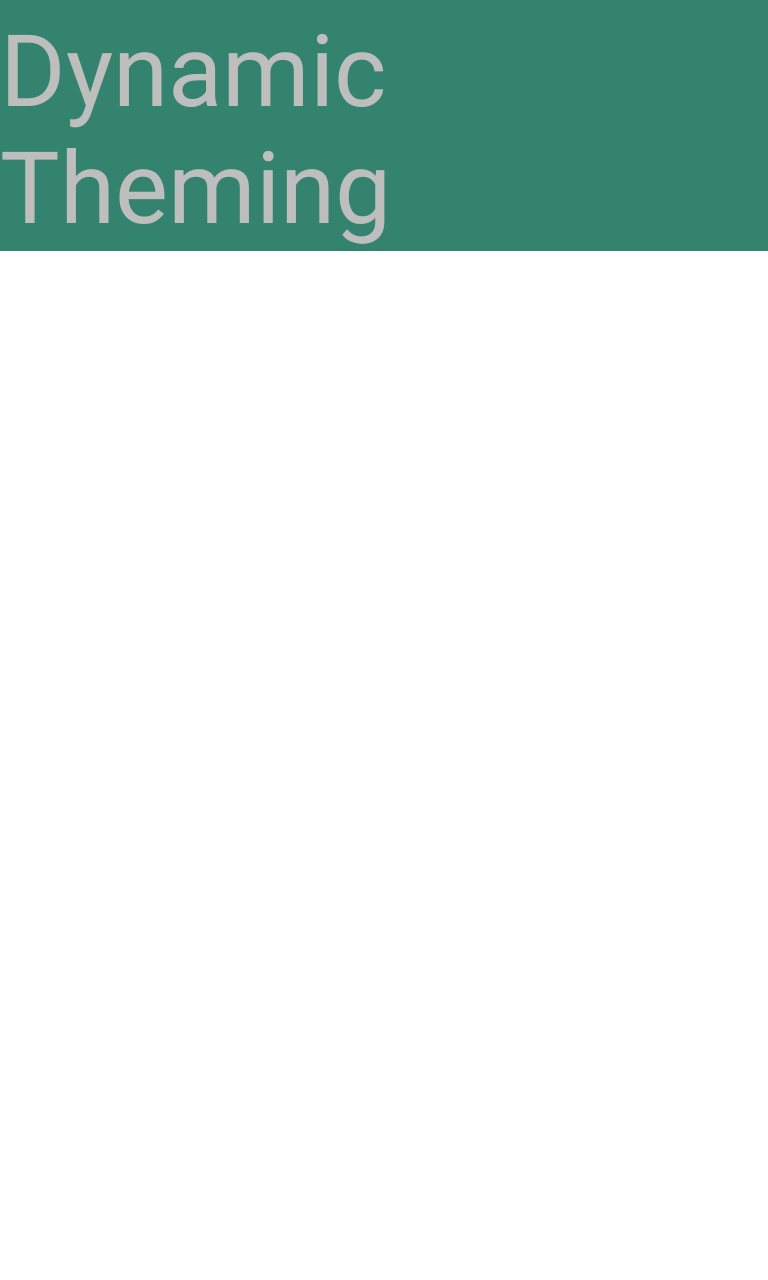
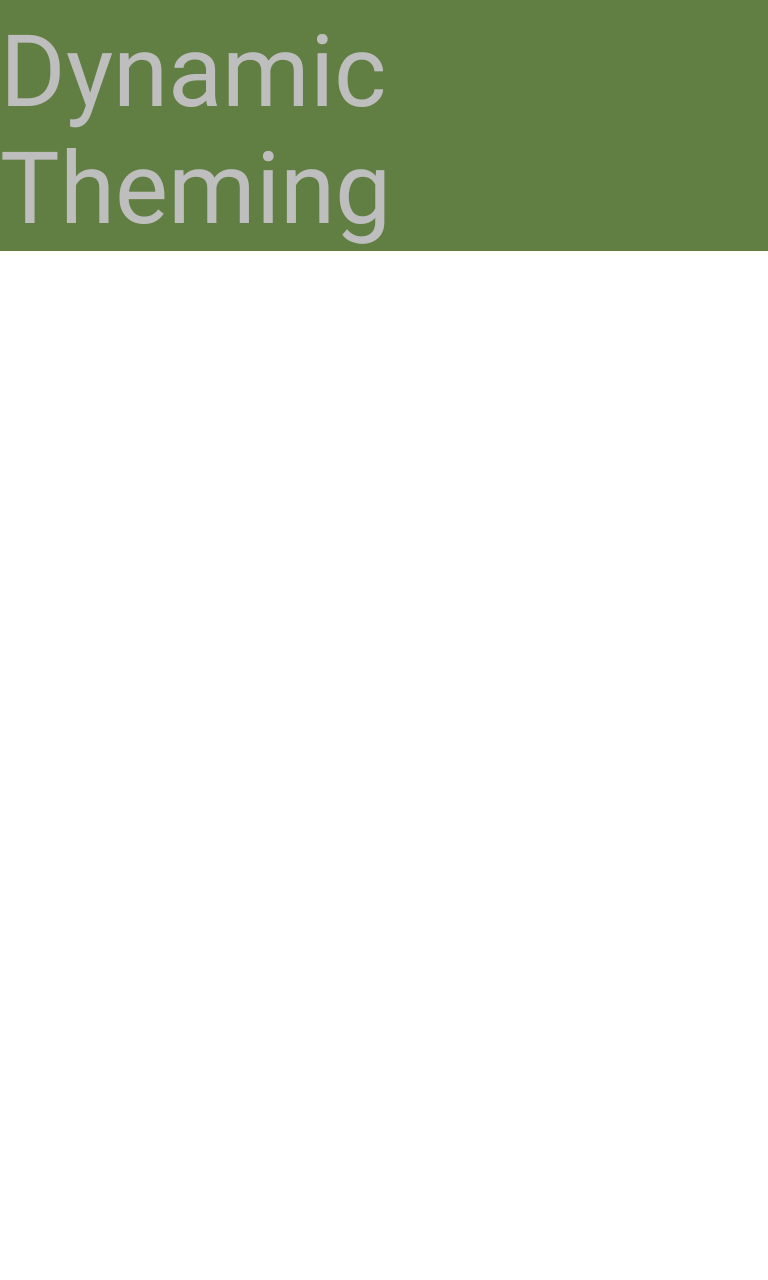
Update dynamic theming wallpapers
Material design has changed their example wallpapers. This accordingly
updates the ones offered in Studio.

Bug: 256875698
Test: tests updated

Changed region(s): [[0.0, 0.0, 1.0, 0.2188]]

diff --git a/android/src/com/android/tools/idea/configurations/SystemUiModeAction.kt b/android/src/com/android/tools/idea/configurations/SystemUiModeAction.kt
@@ -278,11 +278,10 @@ private class SetWallpaperAction(renderContext: ConfigurationHolder, val wallpap
 }
 
 enum class Wallpaper(val resourcePath: String, val icon: Icon) {
-  WALLPAPER_1("/wallpapers/wallpaper1.webp", getWallpaperIcon("/wallpapers/thumbnail1.png")),
-  WALLPAPER_2("/wallpapers/wallpaper2.webp", getWallpaperIcon("/wallpapers/thumbnail2.png")),
-  WALLPAPER_3("/wallpapers/wallpaper3.webp", getWallpaperIcon("/wallpapers/thumbnail3.png")),
-  WALLPAPER_4("/wallpapers/wallpaper4.webp", getWallpaperIcon("/wallpapers/thumbnail4.png")),
-  WALLPAPER_5("/wallpapers/wallpaper5.webp", getWallpaperIcon("/wallpapers/thumbnail5.png"));
+  RED("/wallpapers/red.png", getWallpaperIcon("/wallpapers/red_thumbnail.png")),
+  GREEN("/wallpapers/green.png", getWallpaperIcon("/wallpapers/green_thumbnail.png")),
+  BLUE("/wallpapers/blue.png", getWallpaperIcon("/wallpapers/blue_thumbnail.png")),
+  YELLOW("/wallpapers/yellow.png", getWallpaperIcon("/wallpapers/yellow_thumbnail.png")),
 }
 
 private fun wallpaperFromPath(path: String?): Wallpaper? {

diff --git a/android/testSrc/com/android/tools/idea/rendering/RenderTaskTest.java b/android/testSrc/com/android/tools/idea/rendering/RenderTaskTest.java
@@ -718,7 +718,7 @@ public class RenderTaskTest extends AndroidTestCase {
       }
     });
 
-    configuration.setWallpaperPath(Wallpaper.WALLPAPER_1.getResourcePath());
+    configuration.setWallpaperPath(Wallpaper.RED.getResourcePath());
     RenderTestUtil.withRenderTask(myFacet, file, configuration, logger, task -> {
       task.setDecorations(false);
       try {
@@ -730,7 +730,7 @@ public class RenderTaskTest extends AndroidTestCase {
       }
     });
 
-    configuration.setWallpaperPath(Wallpaper.WALLPAPER_2.getResourcePath());
+    configuration.setWallpaperPath(Wallpaper.GREEN.getResourcePath());
     RenderTestUtil.withRenderTask(myFacet, file, configuration, logger, task -> {
       task.setDecorations(false);
       try {
